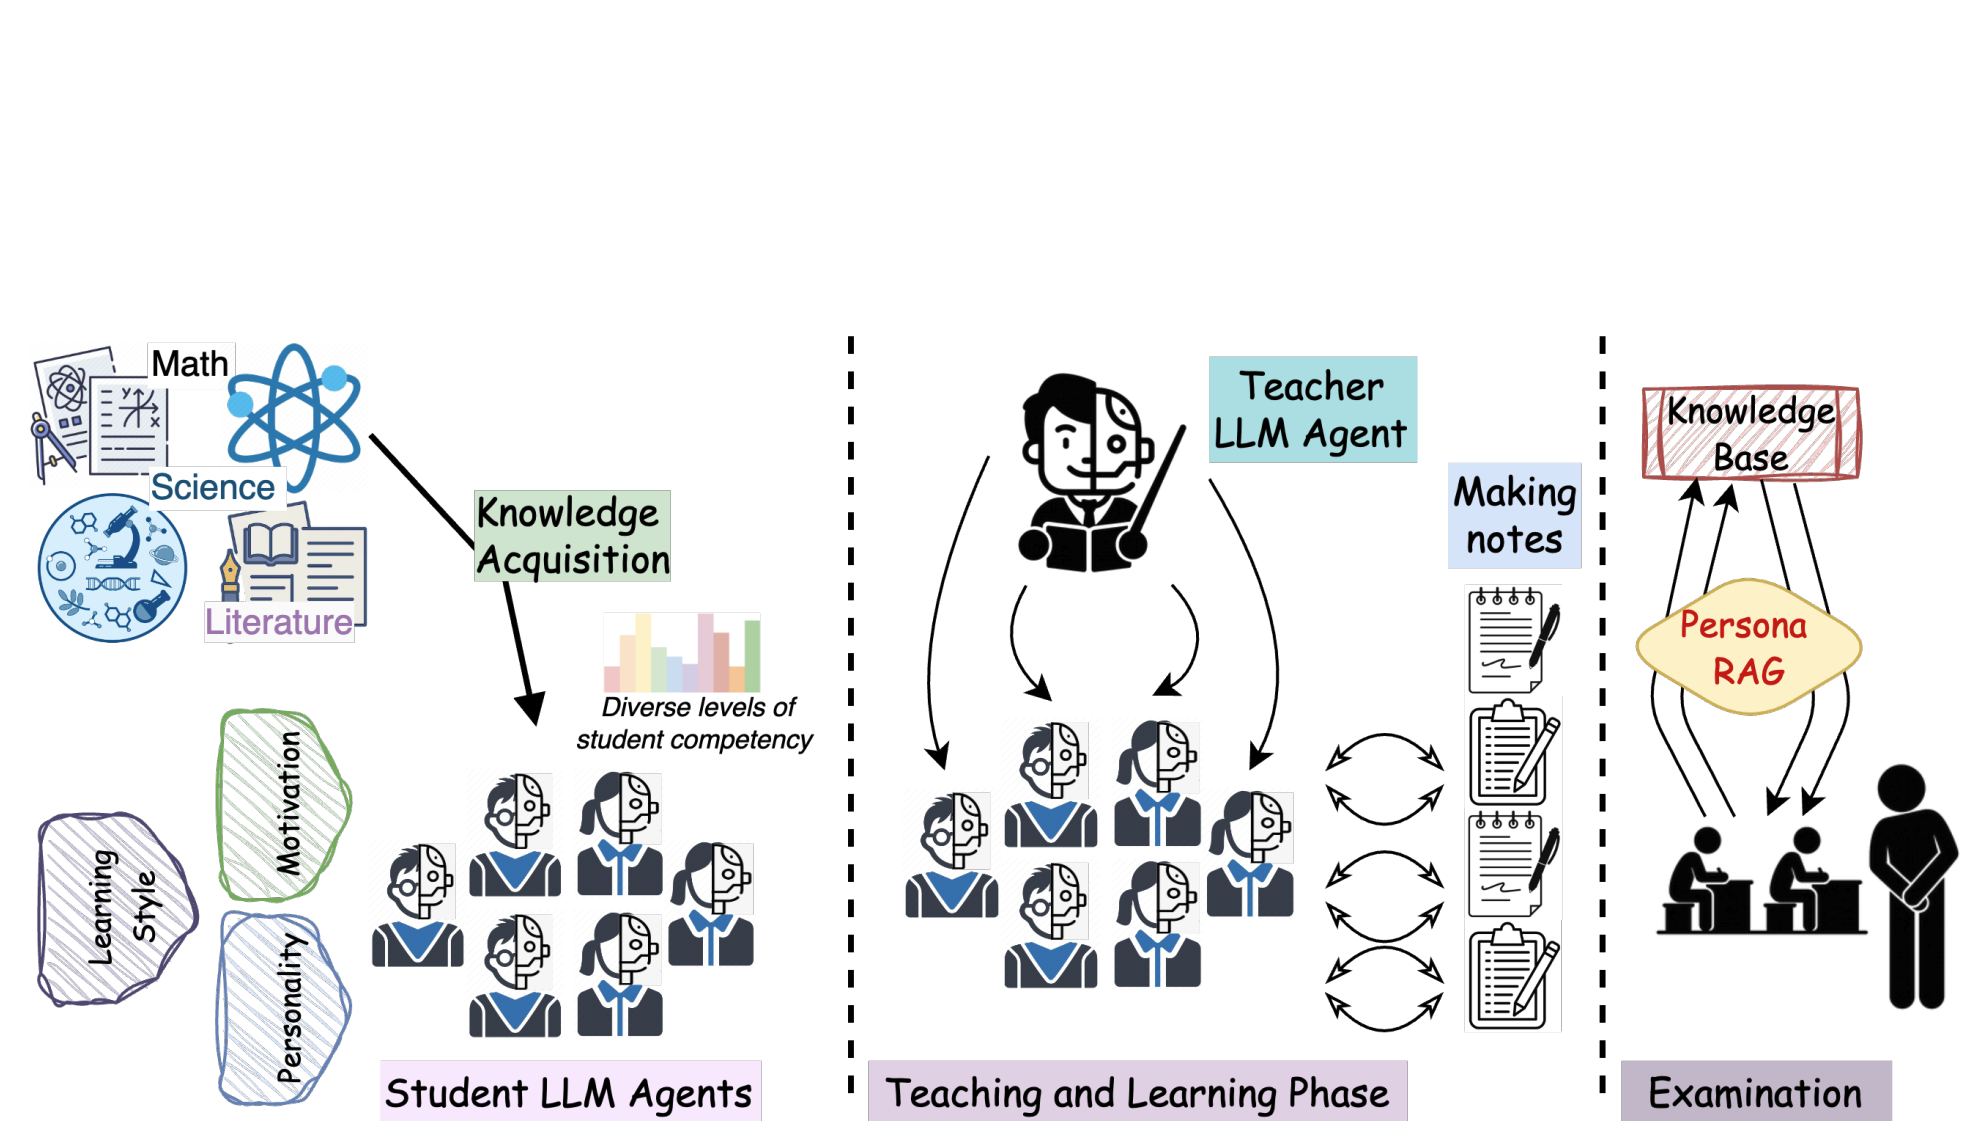
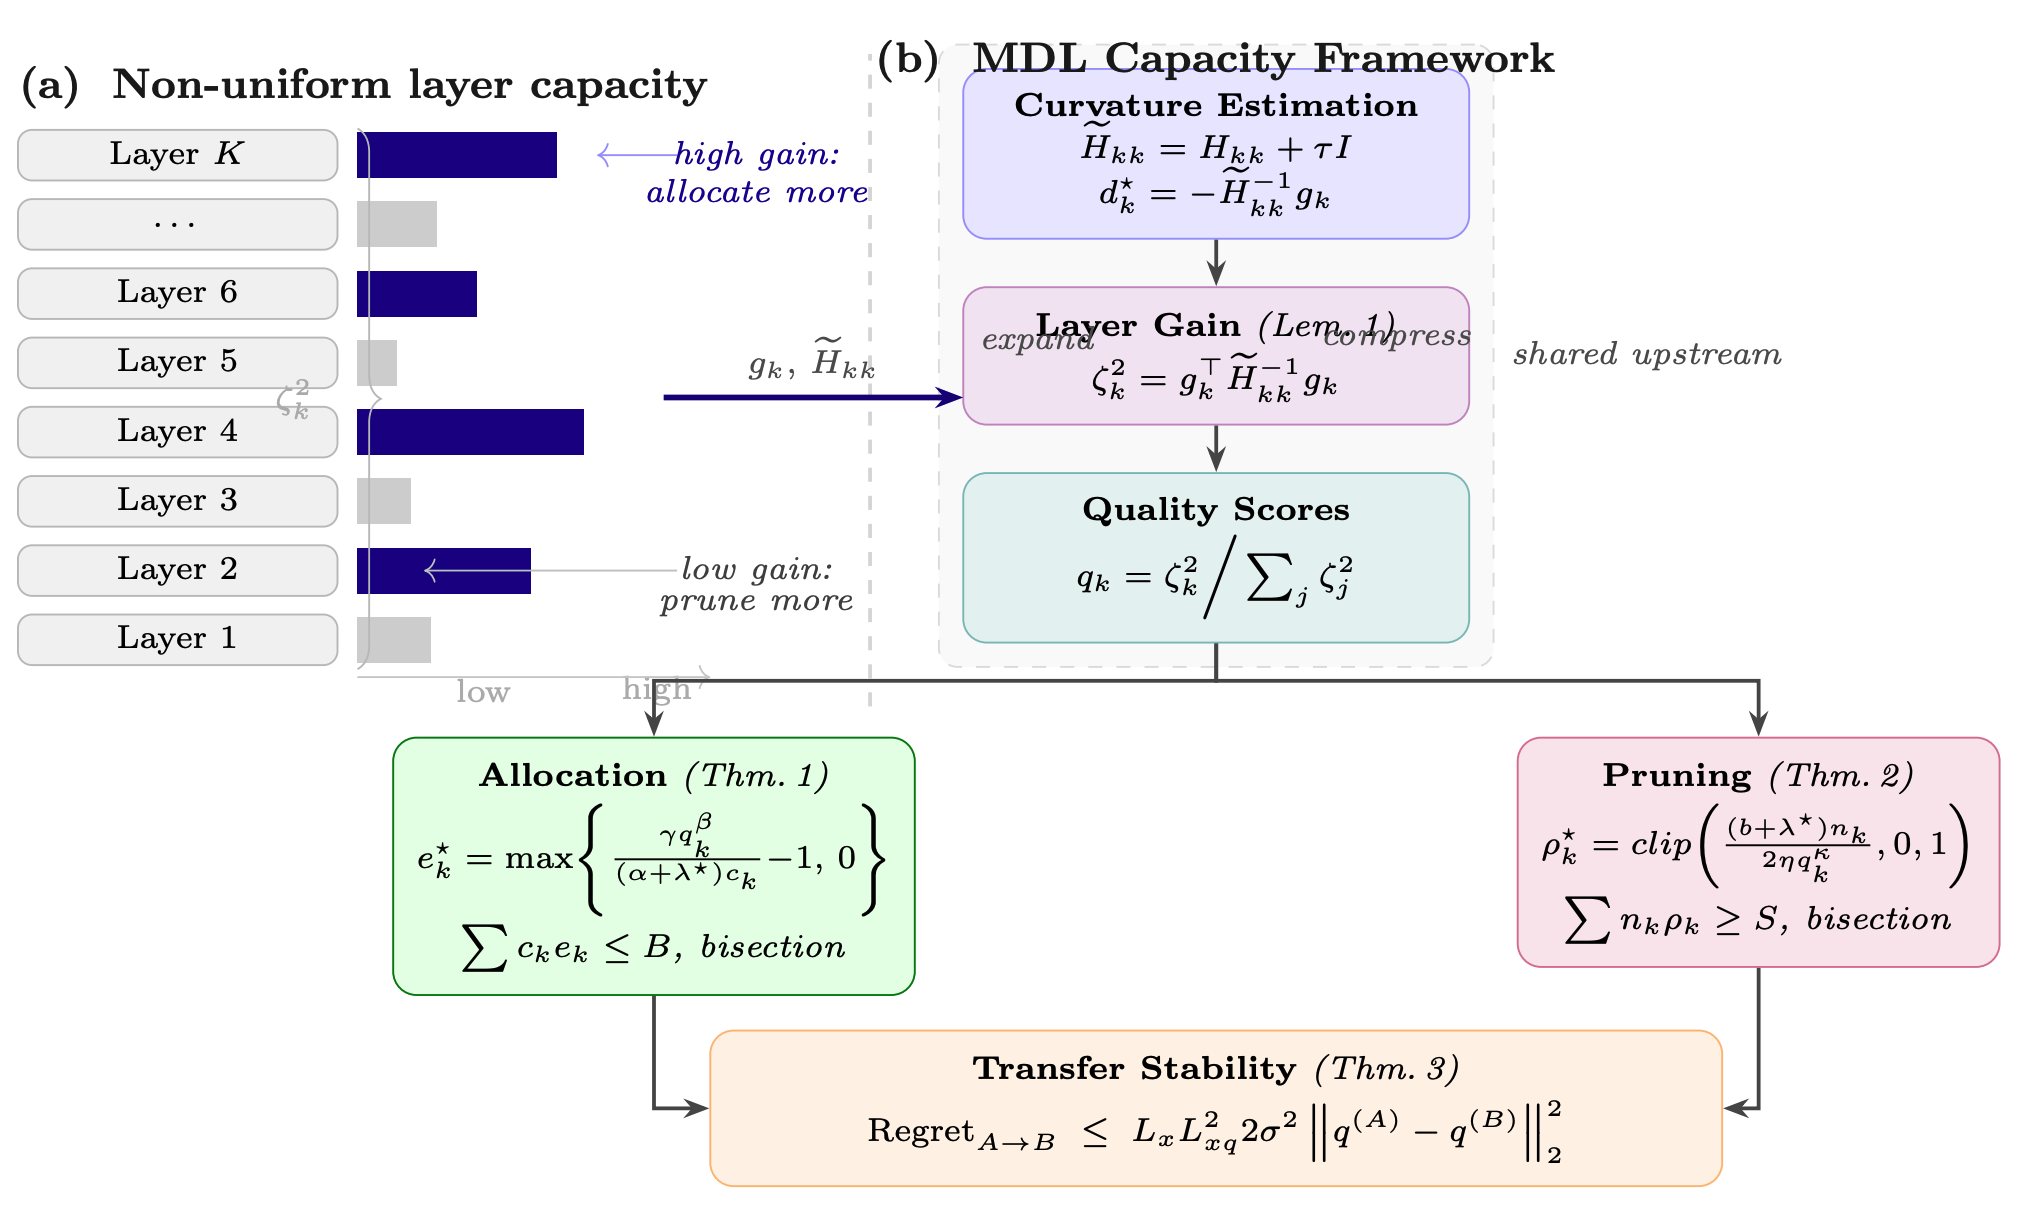
fix links. add thumbnails

diff --git a/docs/research.md b/docs/research.md
@@ -26,7 +26,7 @@ At TKAI Lab, we study learning algorithms inspired by biological intelligence. A
         - [Bridging Predictive Coding and MDL: A Two-Part Code Framework for Deep Learning (2025)](https://arxiv.org/pdf/2505.14635)
         - [Tight Stability, Convergence, and Robustness Bounds for Predictive Coding Networks (2024)](https://arxiv.org/pdf/2410.04708)
         - [The Predictive Forward-Forward Algorithm (2023)](https://arxiv.org/pdf/2301.01452)
-        - [Convolutional Neural Generative Coding: Scaling Predictive Coding to Natural Images (2023)](https://arxiv.org/abs/2211.03481)
+        - [Convolutional Neural Generative Coding: Scaling Predictive Coding to Natural Images (2023)](https://arxiv.org/pdf/2211.12047)
         - [Lifelong Neural Predictive Coding: Sparsity Yields Less Forgetting When Learning Cumulatively (2022)](https://proceedings.neurips.cc/paper_files/paper/2022/file/26f5a4e26c13d1e0a47f46790c999361-Paper-Conference.pdf)
 
 - **Local Representation Alignment**
@@ -40,28 +40,28 @@ At TKAI Lab, we study learning algorithms inspired by biological intelligence. A
 
     === "Publications"
         - [Backpropagation-Free Deep Learning with Recursive Local Representation Alignment (2023)](https://doi.org/10.1609/aaai.v37i8.26118)
-        - [Continual Learning of Recurrent Neural Networks by Locally Aligning Distributed Representations (2018)](https://ieeexplore.ieee.org/document/8543632)
+        - [Continual Learning of Recurrent Neural Networks by Locally Aligning Distributed Representations (2020)](https://doi.org/10.1109/TNNLS.2019.2953622)
         - [Conducting Credit Assignment by Aligning Local Representations (2018)](https://arxiv.org/pdf/1803.01834)
-        - [Biologically Motivated Algorithms for Propagating Local Target Representations (2018)](https://ojs.aaai.org/index.php/AAAI/article/view/4363)
+        - [Biologically Motivated Algorithms for Propagating Local Target Representations (2019)](https://cdn.aaai.org/ojs/4389/4389-13-7428-1-10-20190706.pdf)
 
 - **Backpropagation-Free Reinforcement Learning**
 
     ---
 
-    ![active-inference](./assets/images/research/active-inference.png)
+    ![active-inference](./assets/images/research/angc.png)
 
     === "Overview"
         We explore reinforcement learning systems that use active neural generative coding and predictive coding instead of standard backpropagation through time. These models are motivated by the idea that agents can learn through local predictive objectives, internal state correction, and action-conditioned generative dynamics. This research connects predictive coding, active inference, and reinforcement learning in sparse-reward robotic control settings.
 
     === "Publications"
+        - [Active Predictive Coding: Brain-Inspired Reinforcement Learning for Sparse Reward Robotic Control Problems (2023)](https://doi.org/10.1109/ICRA48891.2023.10160530)
         - [Backprop-Free Reinforcement Learning with Active Neural Generative Coding (2022)](https://doi.org/10.1609/aaai.v36i1.19876)
-        - [Active Predictive Coding: Brain-Inspired Reinforcement Learning for Sparse Reward Robotic Control Problems (2023)](https://ieeexplore.ieee.org/document/10161488)
 
 - **Neuro-Mimetic and Continual Learning**
 
     ---
 
-    ![forward-only](./assets/images/research/forward-only.png)
+    ![forward-only](./assets/images/research/unified-continual-learning.png)
 
     === "Overview"
         We study how neural systems can learn continually without catastrophic forgetting. This includes predictive coding models, self-organizing maps, local learning, sparse representations, and task-free online learning. The broader goal is to design learning systems that remain adaptive over time while preserving previously acquired knowledge.
@@ -100,7 +100,7 @@ We develop theoretical foundations for understanding what neural networks can le
 
     ---
 
-    ![formal-languages](./assets/images/research/formal-languages.png)
+    ![formal-languages](./assets/images/research/recursive-nn.png)
 
     === "Overview"
         We study recurrent neural networks through the lens of formal language recognition. This includes counter languages, Dyck languages, mathematical equation verification, and symbolic rule extraction. Our goal is to characterize when neural models can learn structured computation and when they collapse to simpler finite-state behavior.
@@ -108,8 +108,8 @@ We develop theoretical foundations for understanding what neural networks can le
     === "Publications"
         - [Bridging Neural and Symbolic Computation: A Learnability Study of RNNs on Counter and Dyck Languages (2025)](https://proceedings.mlr.press/v284/dave25a.html)
         - [Investigating Backpropagation Alternatives when Learning to Dynamically Count with Recurrent Neural Networks (2021)](https://proceedings.mlr.press/v153/mali21b.html)
-        - [Recognizing and Verifying Mathematical Equations Using Multiplicative Differential Neural Units (2021)](https://ojs.aaai.org/index.php/AAAI/article/view/16949)
-        - [Stability Analysis of Various Symbolic Rule Extraction Methods from Recurrent Neural Network (2024)](https://openreview.net/forum?id=HnEhue2IYt)
+        - [Recognizing and Verifying Mathematical Equations Using Multiplicative Differential Neural Units (2021)](https://doi.org/10.1609/aaai.v35i6.16634)
+        - [Stability Analysis of Various Symbolic Rule Extraction Methods from Recurrent Neural Network (2024)](https://openreview.net/pdf?id=zFWKKYz2yn)
 
 - **Realizable Circuit Complexity**
 
@@ -122,13 +122,12 @@ We develop theoretical foundations for understanding what neural networks can le
 
     === "Publications"
         - [Realizable Circuit Complexity: Embedding Computation in Space-Time (2025)](https://arxiv.org/pdf/2509.19161)
-        - [Circuit Complexity From Physical Constraints: Scaling Limitations of Attention (2025)](https://arxiv.org/abs/2509.19161)
 
 - **Finite Precision and Computational Limits**
 
     ---
 
-    ![finite-precision](./assets/images/research/finite-precision.png)
+    ![finite-precision](./assets/images/research/second-order-rnn.png)
 
     === "Overview"
         Neural networks are often analyzed as real-valued systems, but practical computation occurs under bounded precision and finite time. We study how these constraints change the expressivity, stability, and learnability of neural architectures. This research asks when neural models can approximate symbolic computation and when numerical constraints force them into simpler computational regimes.
@@ -173,21 +172,19 @@ We develop neuro-symbolic methods that combine neural representations with symbo
 
     === "Publications"
         - [Curvature-Weighted Capacity Allocation: A Minimum Description Length Framework for Layer-Adaptive Large Language Model Optimization (2026)](https://arxiv.org/pdf/2603.00910)
-        - [Surprisal-Rényi Free Energy (2026)](https://arxiv.org/pdf/2603.03405)
-        - [The “Surprisal” Between Contrastive Representation Learning and the Free Energy Principle](https://digitalcommons.usf.edu/cgi/viewcontent.cgi?article=1001&context=bcreus)
 
 - **Educational and Human-Centered LLM Agents**
 
     ---
 
-    ![education-ai](./assets/images/research/education-ai.png)
+    ![education-ai](./assets/images/research/persona-rag.png)
 
     === "Overview"
         We design LLM-based agents for education and human-centered reasoning. This includes teacher-student agent systems, retrieval-augmented learning environments, learning-style adaptation, and ethically grounded decision-making. The goal is to make AI agents useful, transparent, and safe in settings where human learning and trust are central.
 
     === "Publications"
         - [Investigating Pedagogical Teacher and Student LLM Agents: Genetic Adaptation Meets Retrieval Augmented Generation Across Learning Style (2025)](https://aclanthology.org/2025.emnlp-main.675.pdf)
-        - [Ethical Decision-Making in the Age of AI: An Analysis of Large Language Models (2026)](https://ieeexplore.ieee.org/document/11062979)
+        - [Ethical Decision-Making in the Age of AI: An Analysis of Large Language Models (2026)](https://doi.org/10.1109/ACDSA67686.2026.11467880)
 
 </div>
 
@@ -230,7 +227,7 @@ We develop mathematical and algorithmic tools for improving the stability, robus
 
     ---
 
-    ![unlearning](./assets/images/research/unlearning.png)
+    ![unlearning](./assets/images/research/diffusion-unlearning.png)
 
     === "Overview"
         Reliable AI systems must adapt, forget, and remain robust under distribution shifts and adversarial conditions. We study continual learning, model unlearning, concept erasure, and robustness in generative models. This research develops evaluation methods and divergence-driven objectives for distinguishing true unlearning from concealment or superficial suppression.
@@ -282,13 +279,13 @@ We use AI to accelerate scientific discovery in biology, geoscience, physics, an
 
     ---
 
-    ![geoscience](./assets/images/research/geoscience.png)
+    ![geoscience](./assets/images/research/crustal-permeability.png)
 
     === "Overview"
         We apply machine learning to geophysical systems involving permeability evolution, microearthquakes, and coupled seismo-thermo-hydro-mechanical-chemical processes. This work aims to connect seismic signals, laboratory measurements, and physical mechanisms in order to better understand subsurface dynamics and enhanced geothermal systems.
 
     === "Publications"
-        - [Crustal Permeability Generated Through Microearthquakes Is Constrained by Seismic Moment (2024)](https://doi.org/10.1038/s41467-024-46303-x)
+        - [Crustal Permeability Generated Through Microearthquakes Is Constrained by Seismic Moment (2024)](https://rdcu.be/flrNb)
         - [Evolution of Crustal Permeability as a Coupled Seismo-THMC Process (2025)](https://agu.confex.com/agu/agu25/meetingapp.cgi/Paper/1894046)
         <!-- - [Machine Learning to Connect Permeability Evolution to Microearthquakes in Hydraulic Stimulations for Enhanced Geothermal Systems (2023)]() -->
 
@@ -312,7 +309,7 @@ We develop AI systems for biomedical interpretation, visual reasoning, image com
         We study how language models and chain-of-thought prompting can support clinical interpretation and patient-centered communication. This includes work on pathology report summarization, cancer report interpretation, and safe deployment of AI systems in health-related workflows.
 
     === "Publications"
-        - [Chain-of-Thought for Cancer Pathology Interpretation and Summarization (2025)](https://ieeexplore.ieee.org/document/11063519)
+        - [Chain-of-Thought for Cancer Pathology Interpretation and Summarization (2025)](https://doi.org/10.1109/SMARTCOMP65954.2025.00081)
 
 - **Microscopy and Human-in-the-Loop Vision-Language Models**
 
@@ -336,7 +333,7 @@ We develop AI systems for biomedical interpretation, visual reasoning, image com
         We develop neural methods for image compression and iterative decoding. This includes recurrent learning algorithms, neural JPEG systems, and gradient communication between estimators. The broader goal is to improve compression efficiency while preserving reconstruction quality and computational tractability.
 
     === "Publications"
-        - [The Sibling Neural Estimator: Improving Iterative Image Decoding with Gradient Communication (2020)](https://ieeexplore.ieee.org/document/9105790)
+        - [The Sibling Neural Estimator: Improving Iterative Image Decoding with Gradient Communication (2020)](https://doi.org/10.1109/DCC47342.2020.00010)
         - [Neural JPEG: End-to-End Image Compression Leveraging a Standard JPEG Encoder-Decoder (2022)](https://doi.org/10.1109/DCC52660.2022.00082)
         - [An Empirical Analysis of Recurrent Learning Algorithms in Neural Lossy Image Compression Systems (2021)](https://doi.org/10.1109/DCC50243.2021.00073)
         - [Learned Neural Iterative Decoding for Lossy Image Compression Systems (2018)](https://doi.org/10.1109/DCC.2019.00008)
@@ -345,7 +342,7 @@ We develop AI systems for biomedical interpretation, visual reasoning, image com
 
     ---
 
-    ![vision](./assets/images/research/vision.png)
+    ![vision](./assets/images/research/omni-layout.png)
 
     === "Overview"
         We study visual representation learning, visually grounded language acquisition, human motion prediction, and 3D room layout reconstruction. This work connects perception, language, geometry, and temporal modeling.
@@ -353,7 +350,7 @@ We develop AI systems for biomedical interpretation, visual reasoning, image com
     === "Publications"
         - [OmniLayout: Room Layout Reconstruction from Indoor Spherical Panoramas (2021)](https://openaccess.thecvf.com/content/CVPR2021W/OmniCV/papers/Rao_OmniLayout_Room_Layout_Reconstruction_From_Indoor_Spherical_Panoramas_CVPRW_2021_paper.pdf)
         - [A Neural Temporal Model for Human Motion Prediction (2019)](https://openaccess.thecvf.com/content_CVPR_2019/html/Gopalakrishnan_A_Neural_Temporal_Model_for_Human_Motion_Prediction_CVPR_2019_paper.html)
-        - [Like a Baby: Visually Situated Neural Language Acquisition (2018)](https://aclanthology.org/P18-1142/)
+        - [Like a Baby: Visually Situated Neural Language Acquisition (2018)](https://aclanthology.org/P19-1506.pdf)
         - [Like a Bilingual Baby: The Advantage of Visually Grounding a Bilingual Language Model (2022)](https://arxiv.org/pdf/2210.05487)
 
 </div>
@@ -368,7 +365,7 @@ We develop AI systems for biomedical interpretation, visual reasoning, image com
 
     ---
 
-    ![patent](./assets/images/research/patent.png)
+    ![patent](./assets/images/research/ml-patent.png)
 
     === "Overview"
         Our research has contributed to patented technology on alternative methods for training neural networks. This reflects the translational potential of biologically motivated and backpropagation-free learning methods for real-world AI systems.

diff --git a/README.md b/README.md
@@ -7,15 +7,12 @@
 To build the website locally, first install the requirements in the `requirements.txt` file.
 
 ```sh
-# Create venv (pip)
-python3 -m venv .venv
-
-# Create venv (uv)
+# Create venv
 uv venv
 
 # Activate environment and install dependencies
 source .venv/bin/activate
-pip install -r requirements.txt
+uv pip install -r requirements.txt
 ```
 
 Once the dependencies have been installed, you can build and serve the website locally by executing the following command:
@@ -28,7 +25,7 @@ mkdocs serve
 mkdocs serve -a localhost:9000
 ```
 
-To enable live reloading, use the command
+To enable live reloading, use the command `--livereload` flag:
 
 ```sh
 mkdocs serve --livereload
@@ -45,4 +42,4 @@ INFO    -  [20:25:39] Serving on http://127.0.0.1:8000/
 ```
 
 Open the address in the last line in your browser and you will be able to view the website.
-Note that MkDocs supports live reloading, so any edits to the website will be re-built in real-time.
+Note that MkDocs supports live reloading, so any edits to the website will be re-built in real-time by using the `--livereload` option.